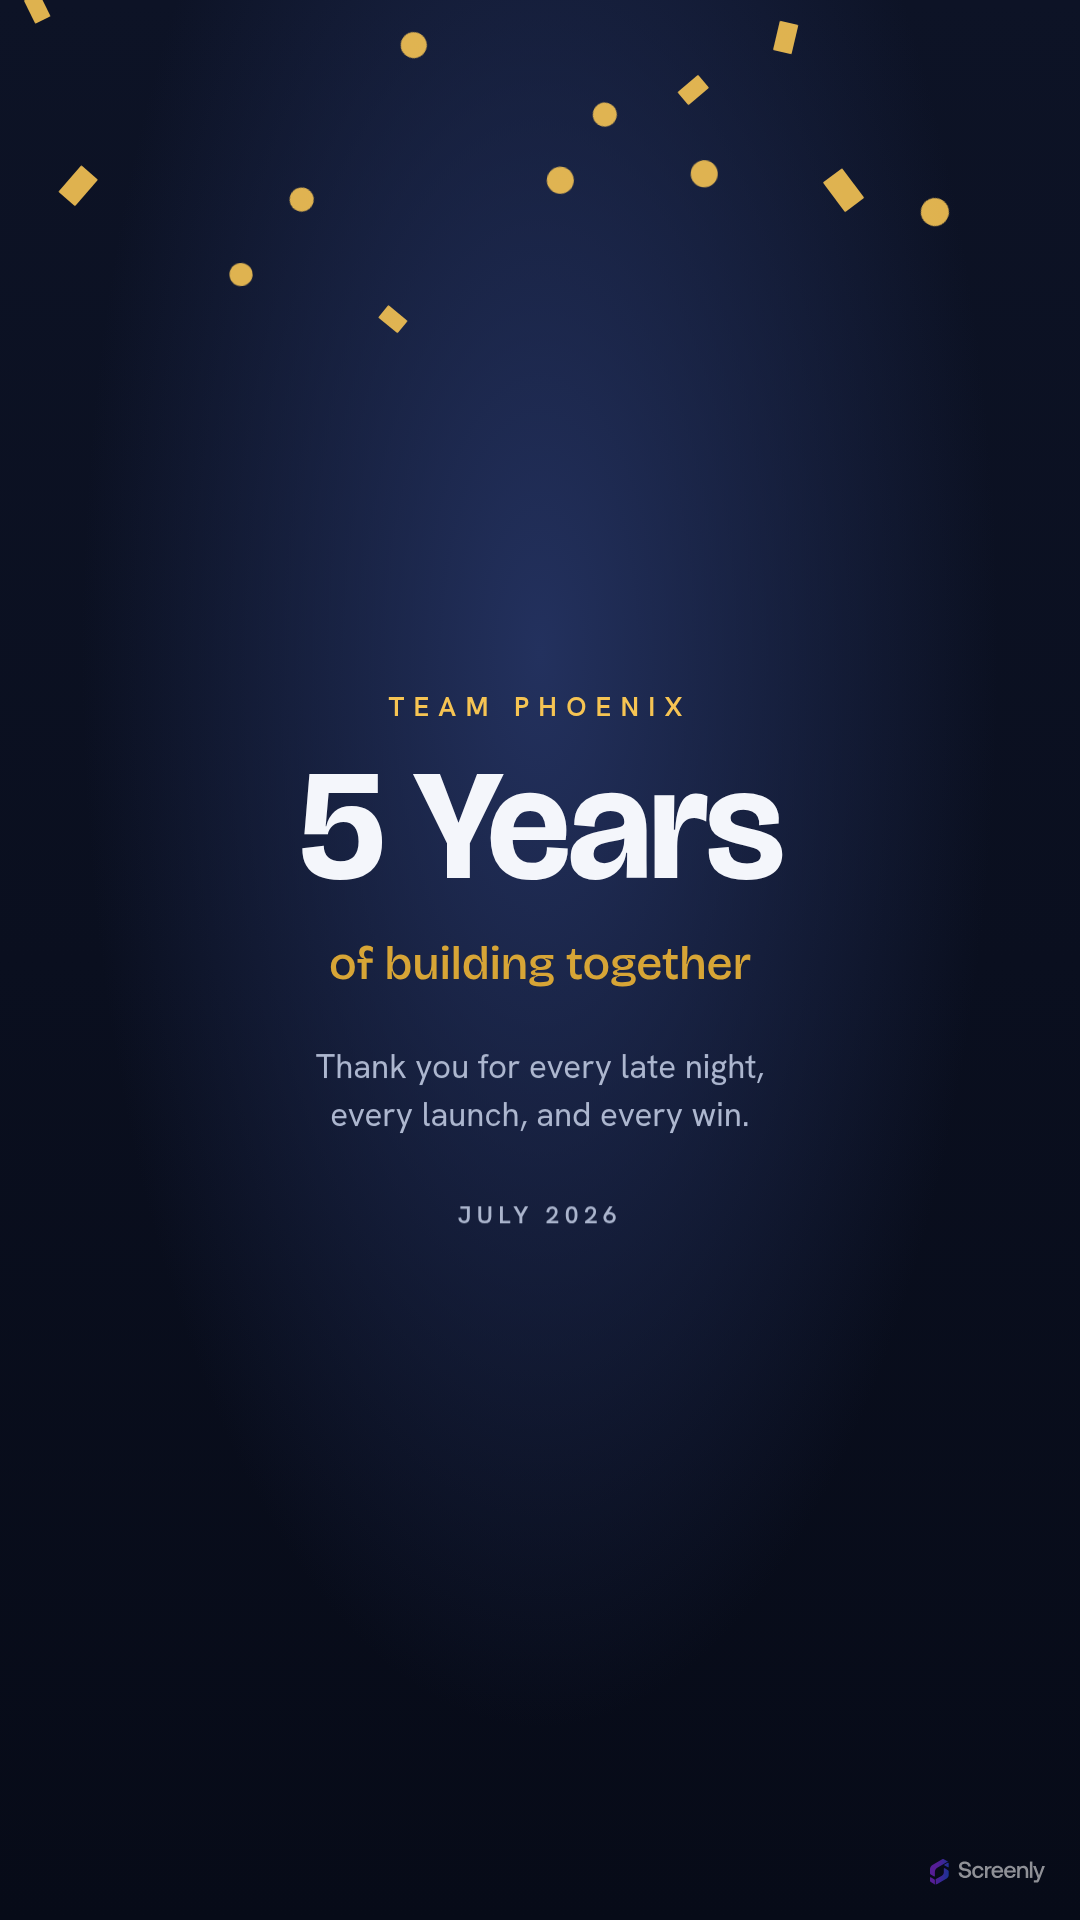
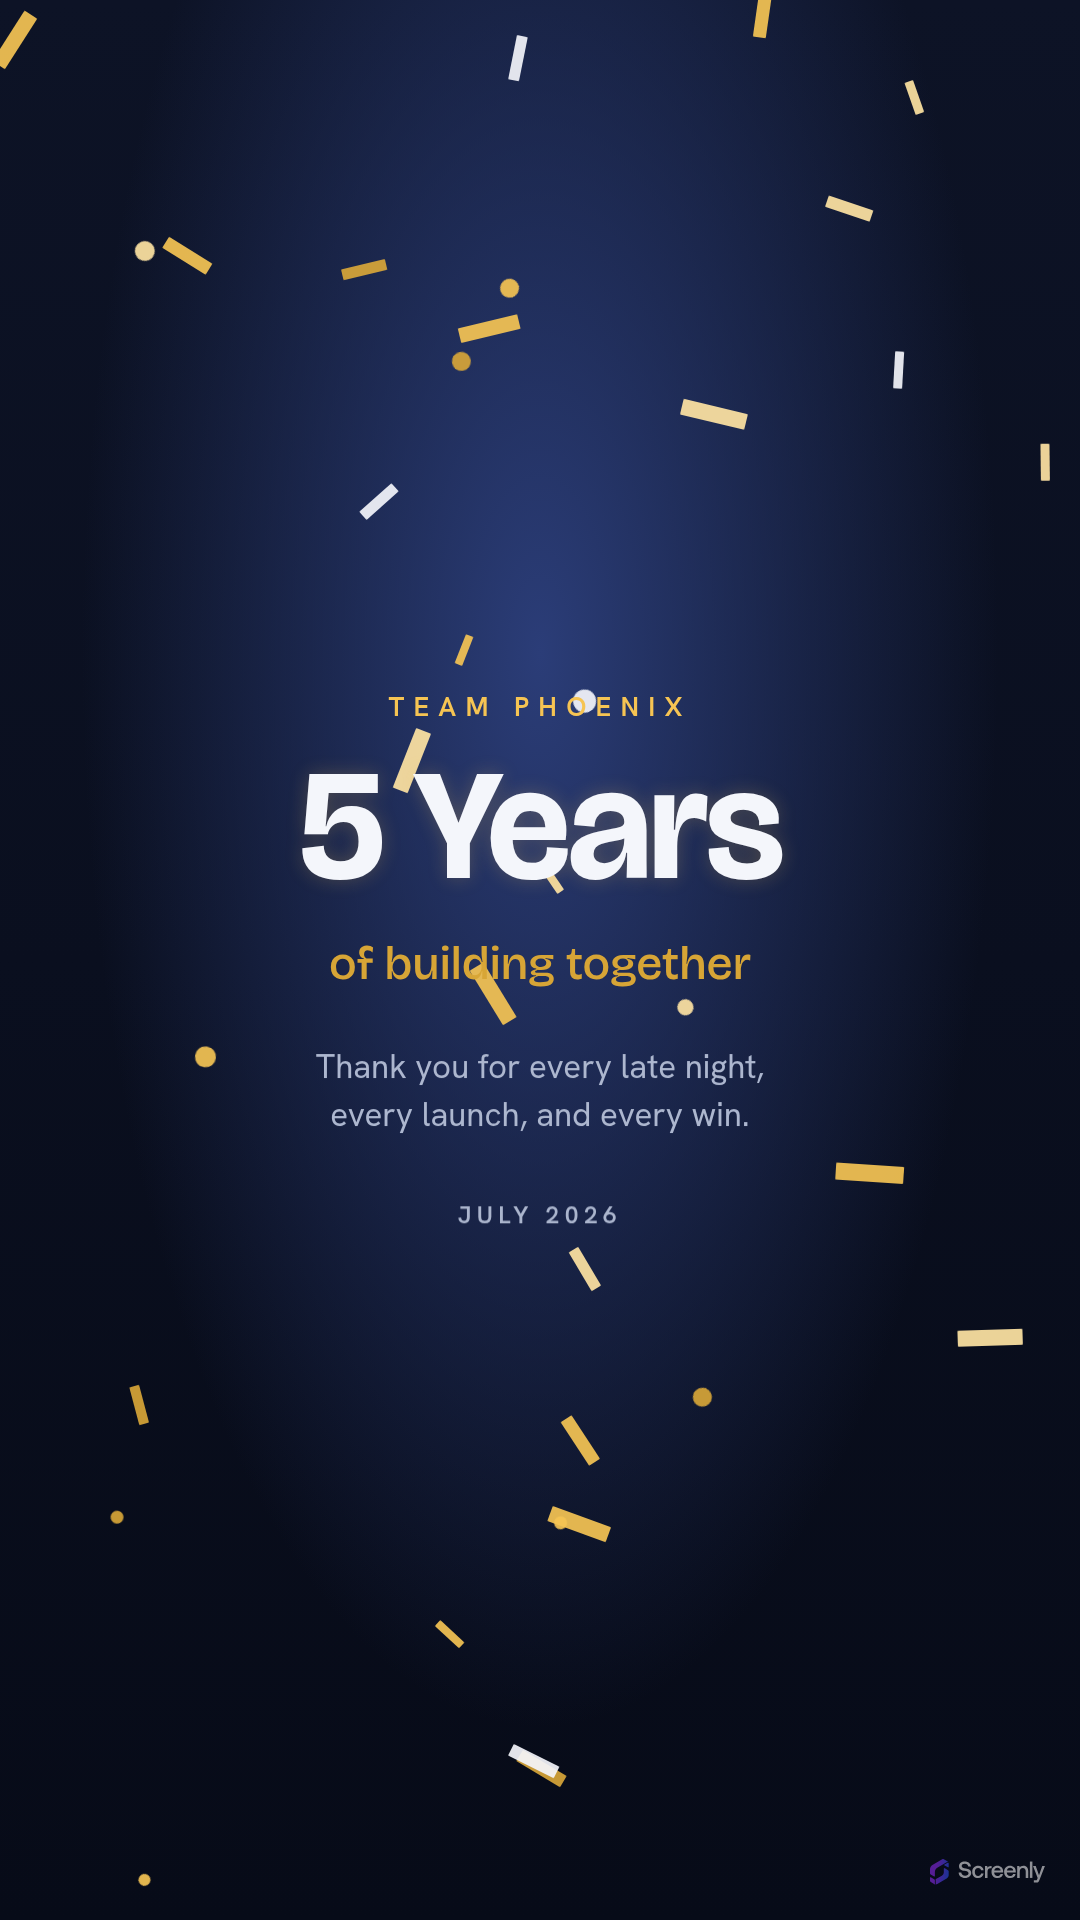
Fix confetti rendering, differentiate signature, reduced-motion
Design-audit fixes (P0/P1):
- P0: move the confetti palette out of @user into a plain :root block. Tailwind
  v4 tree-shook the JS-referenced colours, so the whole shower rendered gold.
- P1: negative animation-delay per piece so the shower fills the frame from the
  first paint instead of clustering at the top.
- P1: under prefers-reduced-motion, hold the confetti as a still full-frame
  scatter (kept, not hidden), in @user components so it overrides the base rule.
- P1: distinguish the signature from the Birthday app — a restrained gold/white
  ticker-tape (fewer, longer streamers) rather than dense multicolour confetti,
  plus a slightly stronger burst and a faint warm halo on the numeral.

diff --git a/assets/static/styles/tailwind.css b/assets/static/styles/tailwind.css
@@ -14,19 +14,26 @@
 @theme {
   --color-ink: #0d1326;
   --color-ink-deep: #070b18;
-  --color-burst: #23315e;
+  --color-burst: #2b3d78;
   --color-paper: #f4f6fb;
   --color-paper-dim: #aeb8d0;
   --color-gold: #f6c453;
   --color-gold-deep: #d8a637;
   --font-display: 'Bricolage Grotesque', ui-sans-serif, system-ui, sans-serif;
   --font-sans: 'Hanken Grotesk', ui-sans-serif, system-ui, sans-serif;
+}
 
-  /* Confetti palette, indexed by --hue (0..3) from buildConfetti(). */
+/* Confetti palette, referenced only from JS-set inline styles (var(--confetti-N)).
+   Kept OUT of @theme on purpose: Tailwind v4 tree-shakes theme vars it can't see
+   used in the stylesheet, which would drop every colour but the fallback and make
+   the whole shower one colour. As a plain :root block these are always emitted.
+   A gold-and-white palette (no party brights) for a premium ticker-tape — this is
+   what sets the milestone shower apart from the Birthday app's confetti. */
+:root {
   --confetti-0: #f6c453;
   --confetti-1: #f4f6fb;
-  --confetti-2: #6ad3c9;
-  --confetti-3: #7aa2ff;
+  --confetti-2: #ffe4a3;
+  --confetti-3: #d8a637;
 }
 
 /* Webfonts: self-hosted, vendored from Bun-managed @fontsource (sync-fonts.js).
@@ -110,6 +117,8 @@
     letter-spacing: -0.02em;
     text-wrap: balance;
     color: var(--color-paper);
+    /* A faint warm halo so the numeral reads as lit by the burst behind it. */
+    text-shadow: 0 0 0.12em color-mix(in srgb, var(--color-gold) 22%, transparent);
   }
 
   .card__label {
@@ -185,31 +194,46 @@
     overflow: hidden;
   }
 
+  /* Ticker-tape streamers: narrow and long, unlike the Birthday app's squarer
+     confetti. Colour comes from a per-scrap palette reference set in main.ts. */
   .confetti__bit {
     position: absolute;
-    top: -6vh;
+    top: -8vh;
     left: var(--left);
-    width: calc(0.7rem * var(--size));
-    height: calc(1.1rem * var(--size));
-    /* Colour comes from a per-scrap palette reference set in main.ts. */
+    width: calc(0.4rem * var(--size));
+    height: calc(1.6rem * var(--size));
     background-color: var(--bit-color, var(--confetti-0));
     border-radius: 1px;
-    opacity: 0.9;
+    opacity: 0.92;
     will-change: transform;
   }
 
+  /* A few round sequins among the streamers. */
   .confetti__bit--round {
     border-radius: 50%;
-    height: calc(0.7rem * var(--size));
+    width: calc(0.55rem * var(--size));
+    height: calc(0.55rem * var(--size));
+  }
+
+  /* Reduced motion: hold the shower still as a scatter. Lives in @layer
+     components (not base) so it can override the animated .confetti__bit above —
+     the components layer wins over base regardless of specificity. */
+  @media (prefers-reduced-motion: reduce) {
+    .confetti__bit {
+      top: var(--top);
+      transform: translateX(var(--drift)) rotate(var(--rotate));
+    }
   }
 }
 
 @layer base {
   @media (prefers-reduced-motion: no-preference) {
     /* The confetti shower: each scrap falls the full height with a little
-       horizontal drift and spin, offset by its own delay, looping forever. */
+       horizontal drift and spin. The delay is applied *negative* so every piece
+       starts mid-fall — the shower fills the whole frame from the first paint
+       instead of clustering at the top edge. */
     .confetti__bit {
-      animation: confetti-fall var(--duration) linear var(--delay) infinite;
+      animation: confetti-fall var(--duration) linear calc(var(--delay) * -1) infinite;
     }
 
     /* One orchestrated entrance, top to bottom. */
@@ -227,14 +251,6 @@
     }
     .card__date {
       animation: rise 900ms cubic-bezier(0.2, 0.7, 0.2, 1) 460ms both;
-    }
-  }
-
-  /* With reduced motion, the confetti would otherwise sit frozen above the fold;
-     hide it and let the milestone stand on its own. */
-  @media (prefers-reduced-motion: reduce) {
-    .confetti {
-      display: none;
     }
   }
 

diff --git a/assets/static/js/milestone.ts b/assets/static/js/milestone.ts
@@ -32,13 +32,14 @@ export const parseConfig = (params: URLSearchParams): MilestoneConfig => ({
 // CSS can scale them to the viewport; `hue` indexes the palette in the stylesheet.
 export type ConfettiPiece = {
   left: number // horizontal start, 0..1 of the viewport width
-  delay: number // animation delay in seconds
+  top: number // resting vertical position, 0..1 (used for the still reduced-motion scatter)
+  delay: number // animation delay in seconds — spans one full fall (see below)
   duration: number // fall duration in seconds
   drift: number // horizontal drift, -1..1
   rotate: number // total rotation in degrees
   hue: number // palette index, 0..(HUES-1)
   size: number // relative size, ~0.6..1.4
-  round: boolean // circle vs rectangle scrap
+  round: boolean // circle sequin vs ticker-tape streamer
 }
 
 // Number of distinct confetti colours the stylesheet defines (--confetti-0..N).
@@ -46,19 +47,27 @@ export const CONFETTI_HUES = 4
 
 // Deterministically lay out `count` confetti pieces. `rng` is injectable so the
 // layout is testable and reproducible; main.ts passes Math.random at runtime.
+//
+// `delay` spans a piece's own `duration` so that, applied as a *negative*
+// animation-delay, each scrap starts mid-fall — the loop's steady state fills the
+// whole frame from the first paint instead of clustering at the top. `top` gives
+// each piece a resting position for the still, reduced-motion scatter. Streamers
+// dominate (mostly rectangles) for the ticker-tape look; a few round sequins.
 export const buildConfetti = (count: number, rng: () => number = Math.random): ConfettiPiece[] => {
   const pieces: ConfettiPiece[] = []
   if (!Number.isFinite(count) || count <= 0) return pieces
   for (let i = 0; i < count; i++) {
+    const duration = 4 + rng() * 4
     pieces.push({
       left: rng(),
-      delay: rng() * 4,
-      duration: 4 + rng() * 4,
+      top: rng(),
+      duration,
+      delay: rng() * duration,
       drift: rng() * 2 - 1,
       rotate: (rng() * 2 - 1) * 720,
       hue: Math.min(CONFETTI_HUES - 1, Math.floor(rng() * CONFETTI_HUES)),
       size: 0.6 + rng() * 0.8,
-      round: rng() < 0.5
+      round: rng() < 0.25
     })
   }
   return pieces

diff --git a/assets/static/js/main.ts b/assets/static/js/main.ts
@@ -10,9 +10,9 @@ import { buildConfetti, type ConfettiPiece, parseConfig } from './milestone'
 const EXAMPLE =
   'team=Team+Phoenix&value=5+Years&label=of+building+together&message=Thank+you+for+every+late+night,+every+launch,+and+every+win.&date=July+2026'
 
-// How many scraps of confetti to scatter. Static count — plenty for a festive
-// screen without overwhelming a low-powered signage player.
-const CONFETTI_COUNT = 60
+// How many scraps of confetti to scatter. Fewer, larger streamers than the
+// Birthday app — a restrained gold ticker-tape rather than a dense party shower.
+const CONFETTI_COUNT = 40
 
 const text = (id: string, value: string): void => {
   const el = document.getElementById(id)
@@ -54,6 +54,7 @@ const scatterConfetti = (): void => {
     const el = document.createElement('span')
     el.className = piece.round ? 'confetti__bit confetti__bit--round' : 'confetti__bit'
     el.style.setProperty('--left', `${piece.left * 100}%`)
+    el.style.setProperty('--top', `${piece.top * 100}%`)
     el.style.setProperty('--delay', `${piece.delay}s`)
     el.style.setProperty('--duration', `${piece.duration}s`)
     el.style.setProperty('--drift', `${piece.drift * 12}vw`)

diff --git a/CLAUDE.md b/CLAUDE.md
@@ -67,7 +67,14 @@ above it, and confetti falls quietly behind. One fluid root font-size
 (`clamp(vw + vh)`) drives the whole scale and is orientation-neutral; children
 size in `rem`, so it works from the 800×480 Pi display to 4K, portrait and
 landscape, with no breakpoints. The confetti fall and the entrance are gated
-behind `prefers-reduced-motion` (reduced → confetti hidden, value stills).
+behind `prefers-reduced-motion`; when reduced, the confetti holds still as a
+full-frame scatter (kept, not hidden — it's the signature) and the entrance is
+disabled. The confetti is a restrained gold-and-white ticker-tape (distinct from
+the Birthday app's multicolour party confetti). Its palette lives in a plain
+`:root{}` block, **not** `@theme`: Tailwind v4 tree-shakes theme vars it can't see
+referenced in the CSS, and the colours are only referenced from JS-set inline
+styles, so in `@theme` all but the fallback would be dropped and the shower would
+render one colour.
 
 ## Quality bars
 